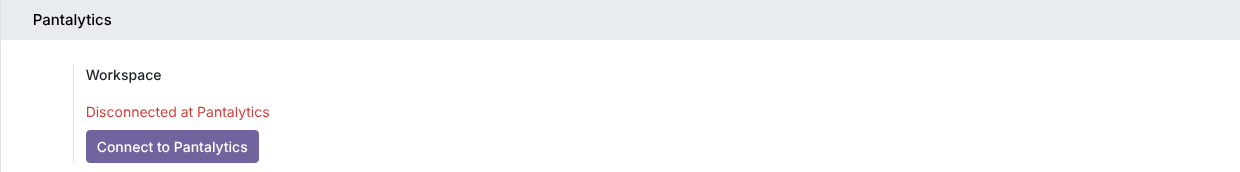
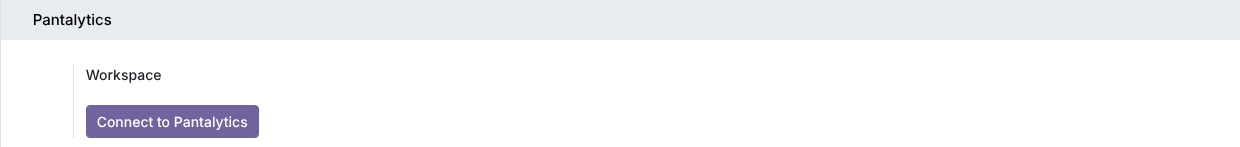
Settings: turned off at Pantalytics looks like not connected
One button either way; the red status line said nothing the button does
not. Canvas notes of 2026-11-24.

Claude-Session: https://claude.ai/code/session_016iWLdF5fFpZC7X6oyzKn3b

diff --git a/docs/design.md b/docs/design.md
@@ -20,7 +20,7 @@ to a company. Connect is for something outside that gets a key.)
 | Not connected | **Connect to Pantalytics**, nothing else | [1](design/1-not-connected.png) |
 | Waiting | amber "Finish in the Pantalytics tab", Cancel; follows by itself | [2](design/2-pending.png) |
 | Connected | green "Connected to Juffermans", Disconnect beside it; Reporting appears | [3](design/3-connected.png) |
-| Disconnected at Pantalytics | red status, **Connect to Pantalytics** | [4](design/4-disconnected.png) |
+| Turned off at Pantalytics | the same as Not connected: **Connect to Pantalytics** | [4](design/4-disconnected.png) |
 
 On the Pantalytics side the approval page says "Connect *host* for Odoo
 Self Learning to your workspace *X*" when the Odoo instance is already in a
